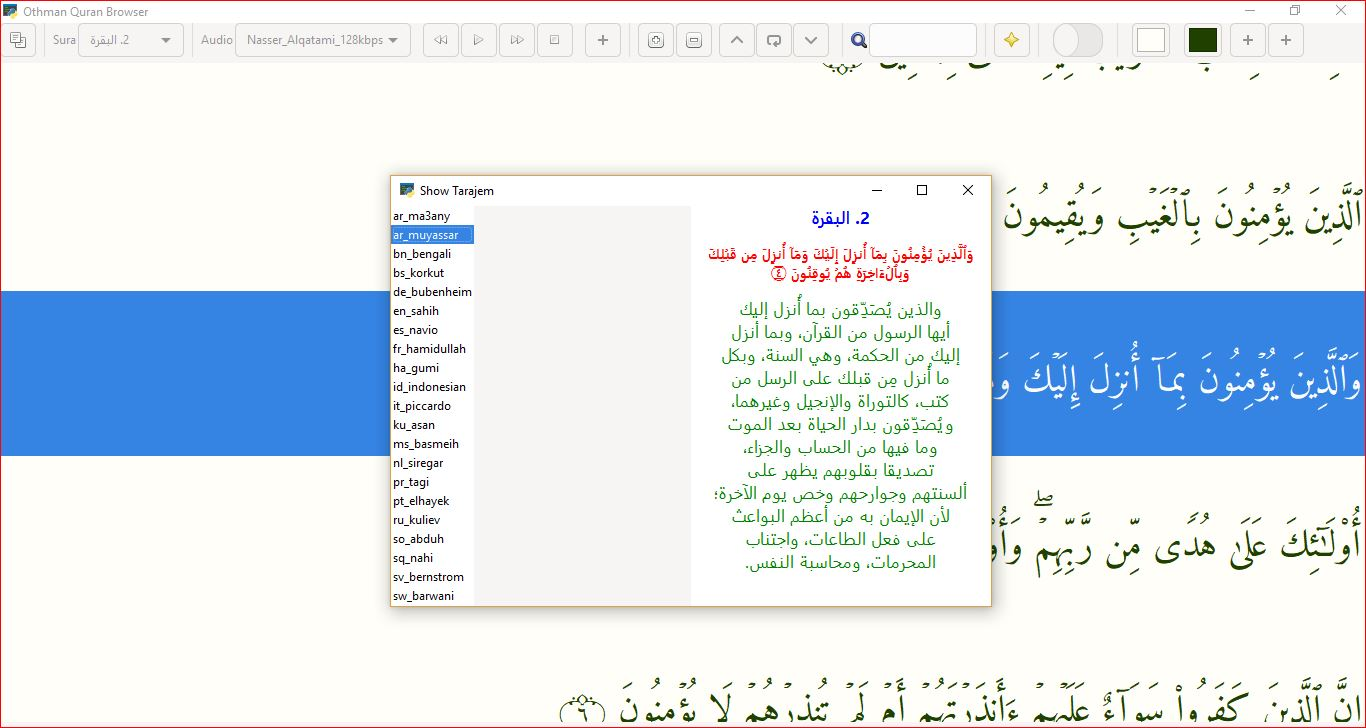
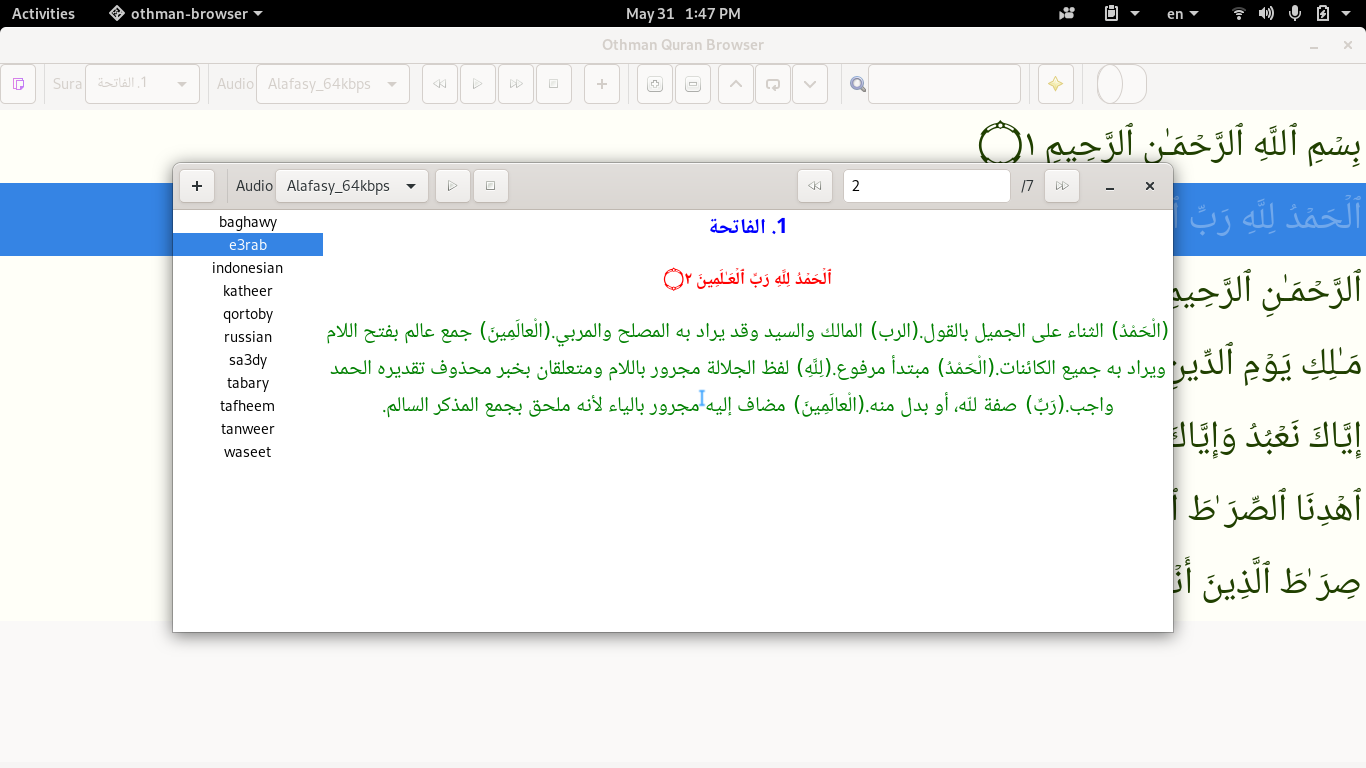
update

diff --git a/othman/gtkUi.py b/othman/gtkUi.py
@@ -121,8 +121,21 @@ class searchWindow(Gtk.Window):
 ###############################################################################
 
 class ShowTarajemTafasir(Gtk.Window):
-    def __init__(self, w=None,tafasir_data_location=None,tooltip="",add_title="",title_="",sura_n=1,aya_n=1,sura="",aya="",msg_if_faild = ""):
+    def __init__(self, w=None,tafasir_data_location=None,tooltip="",add_title="",title_="",sura_n=1,aya_n=1,sura="",aya="",msg_if_faild = "",all_audio=None,istarajem=True):
         Gtk.Window.__init__(self)
+        self.suwar_info = {'1': '7', '2': '286', '3': '200', '4': '176', '5': '120', '6': '165', '7': '206', '8': '75', '9': '129', '10': '109', 
+                           '11': '123', '12': '111', '13': '43', '14': '52', '15': '99', '16': '128', '17': '111', '18': '110', '19': '98', 
+                            '20': '135', '21': '112', '22': '78', '23': '118', '24': '64', '25': '77', '26': '227', '27': '93', '28': '88', 
+                            '29': '69', '30': '60', '31': '34', '32': '30', '33': '73', '34': '54', '35': '45', '36': '83', '37': '182', 
+                            '38': '88', '39': '75', '40': '85', '41': '54', '42': '53', '43': '89', '44': '59', '45': '37', '46': '35', 
+                            '47': '38', '48': '29', '49': '18', '50': '45', '51': '60', '52': '49', '53': '62', '54': '55', '55': '78', 
+                            '56': '96', '57': '29', '58': '22', '59': '24', '60': '13', '61': '14', '62': '11', '63': '11', '64': '18', 
+                            '65': '12', '66': '12', '67': '30', '68': '52', '69': '52', '70': '44', '71': '28', '72': '28', '73': '20', 
+                            '74': '56', '75': '40', '76': '31', '77': '50', '78': '40', '79': '46', '80': '42', '81': '29', '82': '19', 
+                            '83': '36', '84': '25', '85': '22', '86': '17', '87': '19', '88': '26', '89': '30', '90': '20', '91': '15', 
+                            '92': '21', '93': '11', '94': '8', '95': '8', '96': '19', '97': '5', '98': '8', '99': '8', '100': '11', '101': '11', 
+                            '102': '8', '103': '3', '104': '9', '105': '5', '106': '4', '107': '7', '108': '3', '109': '6', '110': '3', '111': '5', 
+                            '112': '4', '113': '5', '114': '5'}
         self.w            = w
         self.tafasir_data_location = tafasir_data_location
         self.tooltip      = tooltip
@@ -133,14 +146,16 @@ class ShowTarajemTafasir(Gtk.Window):
         self.aya          = aya
         self.msg_if_faild = msg_if_faild
         self.title_       = title_
+        self.__all_audio  = all_audio
+        self.istarajem    = istarajem
         self.cleanr       = re.compile('<.*?>|&([a-z0-9]+|#[0-9]{1,6}|#x[0-9a-f]{1,6});')
         self.set_size_request(600, 400)
-
+        self.max_sura_number = self.suwar_info[str(self.sura_n)]
+        self.pipeline = Gst.ElementFactory.make("playbin", "player")
+        
         self.set_position(Gtk.WindowPosition.CENTER_ON_PARENT )
-        #self.set_type_hint(Gdk.WindowTypeHint.UTILITY)
-        if w:
-            self.set_modal(True)
-            self.set_transient_for(w)
+
+        self.w.set_sensitive(False)
         self.set_deletable(True)
         self.set_title(self.title_)
         
@@ -159,9 +174,49 @@ class ShowTarajemTafasir(Gtk.Window):
         self.maincontainer = Gtk.VBox()
         self.add(self.maincontainer)
         self.connect("key-press-event", self._on_key_press)
-        self.connect('delete-event', self._on_cancel_button_clicked)
+        self.connect('delete-event', self._on_delete_event)
         self.__all_tafasir = self.get_all_tafasir_location()
+        self.othmancore = othmanCore()
         self.gui_()
+
+    def _stop_audio(self,button=False):
+        self.pipeline.set_state(Gst.State.NULL)
+
+    def _play_audio(self,button=False):
+        self._stop_audio()
+        aya   = self.aya_n
+        sura  = self.sura_n
+        aya_  = str(aya)
+        sura_ = str(sura)
+        q = self.__all_audio[self.audio_c.get_active_text()]
+
+        if aya==0 and sura not in (9,1) :
+            q = os.path.join(q,"001001.mp3")
+        else:
+            s_ = ("0"*(3-len(sura_)))+sura_
+            a_ = ("0"*(3-len(aya_)))+aya_
+            #q = os.path.join(q,sura_.zfill(4-len(sura_))+aya_.zfill(4-len(aya_))+".mp3")
+            q = os.path.join(q,s_+a_+".mp3")
+        if not os.path.isfile(q):
+            return
+        
+        if  sys.platform.startswith('win'):
+            q =  "file:///"+os.path.abspath(q).replace(os.sep, '/')
+        else:
+            q = "file://"+os.path.abspath(q)
+
+        self.pipeline.set_property('uri',q)
+        self.pipeline.set_state(Gst.State.PLAYING)
+
+        
+    def _on_key_press(self,widget, event):
+        print(event.keyval)
+        if  event.keyval == Gdk.KEY_Left  :
+            self.rewind_b.emit("clicked",self.entry,self.entry_handler)
+                
+        elif   event.keyval == Gdk.KEY_Right  :
+            self.forward_b.emit("clicked",self.entry,self.entry_handler)
+        self.queue_draw()
 
     def _on_add_tafasir_clicked(self,button):
         self.add_w = AddData(self,self.tafasir_data_location,self.add_title)
@@ -190,12 +245,129 @@ class ShowTarajemTafasir(Gtk.Window):
             return result
         return False
 
+    def on_back_aya(self,button,entry,entry_handler):
+        listboxrow = self.listbox_ .get_selected_row()
+        if not listboxrow:
+            return
+        if self.aya_n-1==0:
+            return
+        self.aya_n-=1
+        with GObject.Object.handler_block(entry,entry_handler):
+            entry.set_text(str(self.aya_n))
+        self.aya = self.othmancore.getAyatIter(self.othmancore.ayaIdFromSuraAya(self.sura_n,self.aya_n)).fetchall()[0][0]
+        t  = listboxrow.get_child().props.label
+        db = self.__all_tafasir[t]
+        self.aya_info(db,t)
+        
+    def on_forward_aya(self,button,entry,entry_handler):
+        listboxrow = self.listbox_ .get_selected_row()
+        if not listboxrow:
+            return
+        if self.aya_n+1>int(self.max_sura_number):
+            return
+        self.aya_n+=1
+        with GObject.Object.handler_block(entry,entry_handler):
+            entry.set_text(str(self.aya_n))
+        self.aya = self.othmancore.getAyatIter(self.othmancore.ayaIdFromSuraAya(self.sura_n,self.aya_n)).fetchall()[0][0]
+        t  = listboxrow.get_child().props.label
+        db = self.__all_tafasir[t]
+        self.aya_info(db,t)
+
+    def on_entry_activate(self,entry):
+        text = entry.get_text()
+        listboxrow = self.listbox_.get_selected_row()
+        if not listboxrow:
+            return
+        try:
+            it = int(text)
+        except:
+            return
+        if it>int(self.max_sura_number) or it==0:
+            return
+        else:
+            self.aya_n = it
+            self.aya = self.othmancore.getAyatIter(self.othmancore.ayaIdFromSuraAya(self.sura_n,self.aya_n)).fetchall()[0][0]
+            t  = listboxrow.get_child().props.label
+            db = self.__all_tafasir[t]
+            self.aya_info(db,t)
+            
     def gui_(self):
         self.remove(self.maincontainer)
         self.maincontainer.destroy()
         self.maincontainer = Gtk.HBox()
         self.add(self.maincontainer)
+        if self.sura_n not in (1,9) and self.aya_n==0:
+            self.aya_n=1
         if  self.__all_tafasir:
+            self.connect("key-press-event", self._on_key_press)#########################
+
+
+            hb = Gtk.HBox()
+            hb.set_spacing(2)
+            hb.pack_start(Gtk.VSeparator(), False, False, 6)
+            hb.pack_start(Gtk.Label(_("Audio")), False, False, 0)
+            self.audio_c = Gtk.ComboBoxText.new()
+            self.audio_c.set_wrap_width(5)
+            if self.__all_audio:
+                for i in self.__all_audio.keys():
+                    self.audio_c.append_text(i)
+                self.audio_c.set_tooltip_text(_("choose a Audio"))
+                self.audio_c.set_active(0)
+            else:
+                self.audio_c.set_sensitive(False)
+                self.audio_c.set_tooltip_text(_("No Audio Available"))
+            hb.pack_start(self.audio_c, False, False, 0)
+        
+            audiohb = Gtk.HBox()
+            audiohb.set_spacing(2)
+            img = Gtk.Image.new_from_icon_name("media-playback-start", Gtk.IconSize.BUTTON)
+            self.play_b = Gtk.Button()
+            self.play_b.set_tooltip_text(_("Play"))
+            self.play_b.add(img)
+            audiohb.pack_start(self.play_b, False, False, 0)
+            self.play_b.connect("clicked", self._play_audio)
+        
+            img = Gtk.Image.new_from_icon_name("media-playback-stop", Gtk.IconSize.BUTTON)
+            self.stop_b = Gtk.Button()
+            self.stop_b.set_tooltip_text(_("Stop"))
+            self.stop_b.add(img)
+            audiohb.pack_start(self.stop_b, False, False, 0)
+            self.stop_b.connect("clicked", self._stop_audio)
+            
+            if not self.__all_audio:
+                self.play_b.set_sensitive(False)
+                self.stop_b.set_sensitive(False)
+
+            
+            self.header.pack_start(hb)
+            self.header.pack_start(audiohb)
+        
+            h = Gtk.HBox()
+            h.props.spacing = 10
+            self.entry = Gtk.Entry()
+            self.entry.set_max_width_chars(3)
+            self.entry.set_input_purpose(Gtk.InputPurpose.DIGITS)
+            self.entry.set_text(str(self.aya_n))
+            self.entry_handler = self.entry.connect("activate",self.on_entry_activate)
+            label_aya_number = Gtk.Label()
+            label_aya_number.props.label = "/{}".format(self.max_sura_number)
+    
+            img = Gtk.Image.new_from_icon_name("media-seek-backward", Gtk.IconSize.BUTTON)
+            self.rewind_b = Gtk.Button()
+            self.rewind_b.add(img)
+            h.pack_start(self.rewind_b, False, False, 0)
+            self.rewind_b.connect("clicked", self.on_back_aya,self.entry,self.entry_handler)
+
+            h.pack_start(self.entry, False, False, 0)
+            h.pack_start(label_aya_number, False, False, 0)
+            
+            img = Gtk.Image.new_from_icon_name("media-seek-forward", Gtk.IconSize.BUTTON)
+            self.forward_b = Gtk.Button()
+            self.forward_b.add(img)
+            h.pack_start(self.forward_b, False, False, 0)
+            self.forward_b.connect("clicked", self.on_forward_aya,self.entry,self.entry_handler)
+            
+            self.header.pack_end(h)
             sw1=Gtk.ScrolledWindow()
             sw1.set_policy(Gtk.PolicyType.AUTOMATIC,Gtk.PolicyType.AUTOMATIC)
             sw2=Gtk.ScrolledWindow()
@@ -206,21 +378,10 @@ class ShowTarajemTafasir(Gtk.Window):
             self.maincontainer.pack_start(sw2,True,True,0)
             
 
-            listbox_ = Gtk.ListBox()
-            sw1.add(listbox_)
+            self.listbox_ = Gtk.ListBox()
+            sw1.add(self.listbox_)
             self.__check = True
 
-            
-            for category in dict(sorted(self.__all_tafasir.items())).keys():
-                category_label = Gtk.Label()
-                category_label.set_label(category)
-                row_ = Gtk.ListBoxRow()
-                row_.props.activatable = True
-                row_.props.selectable = True
-                row_.add(category_label)
-                listbox_.add(row_)
-
-            listbox_.connect("row-selected",self.on_selected_row)
             self.text_v = Gtk.TextView()
             self.text_v.set_hexpand(True)
             self.text_v.set_vexpand(True)
@@ -230,6 +391,26 @@ class ShowTarajemTafasir(Gtk.Window):
             self.text_v.props.wrap_mode = Gtk.WrapMode.WORD
             self.buffer = self.text_v.get_buffer()
             sw2.add(self.text_v)
+            
+            if self.istarajem :
+                cc = self.w._current_tarajem
+            else:
+                cc = self.w._current_tafasir
+            for category in dict(sorted(self.__all_tafasir.items())).keys():
+                category_label = Gtk.Label()
+                category_label.set_label(category)
+                row_ = Gtk.ListBoxRow()
+                row_.props.activatable = True
+                row_.props.selectable = True
+                row_.add(category_label)
+                self.listbox_.add(row_)
+                if category==cc:
+                    self.listbox_.select_row(row_)
+
+            self.listbox_.connect("row-selected",self.on_selected_row)
+            if not cc:
+                self.listbox_.select_row(self.listbox_.get_row_at_index(0))
+            
         else:
             l = Gtk.Label()
             l.props.label = self.msg_if_faild
@@ -243,13 +424,21 @@ class ShowTarajemTafasir(Gtk.Window):
         t  = listboxrow.get_child().props.label
         db = self.__all_tafasir[t]
         self.aya_info(db,t)
+        if self.istarajem :
+            self.w._current_tarajem = t
+        else:
+            self.w._current_tafasir = t
 
         
-    def _on_cancel_button_clicked(self,*argv):
+    def _on_delete_event(self,*argv):
+        self.w.set_sensitive(True)
+        self._stop_audio()
         self.destroy()
         
     def _on_key_press(self,widget, event):
         if event.keyval == Gdk.KEY_Escape :
+            self.w.set_sensitive(True)
+            self._stop_audio()
             self.destroy()
             
     def in_text(self,line,end="\n\n"):
@@ -261,7 +450,7 @@ class ShowTarajemTafasir(Gtk.Window):
         start = self.buffer.get_start_iter()
         end = self.buffer.get_end_iter()
         self.buffer.delete(start, end)
-        
+
     def aya_info(self,db,table,text="text"):
         self.clear_text()
         try:
@@ -476,7 +665,7 @@ class AddData(Gtk.Window):
         
 class Yes_Or_No(Gtk.MessageDialog):
     def __init__(self,msg,parent=None,link_button="https://www.amirifont.org"):
-        Gtk.MessageDialog.__init__(self,buttons = Gtk.ButtonsType.OK_CANCEL)
+        Gtk.MessageDialog.__init__(self,buttons = Gtk.ButtonsType.YES_NO )
         self.props.message_type = Gtk.MessageType.QUESTION
         self.props.text         = msg
         self.p=parent
@@ -548,6 +737,9 @@ class othmanUi(Gtk.Window, othmanCore):
         
         ############################
         self.__can_play = True
+        self.__isfullscreen = False
+        self._current_tafasir = ""
+        self._current_tarajem = ""
         self.pipeline = Gst.ElementFactory.make("playbin", "player")
         self.pipeline2 = Gst.ElementFactory.make("playbin", "player")
         self.__bus1 = self.pipeline.get_bus()
@@ -1073,7 +1265,7 @@ class othmanUi(Gtk.Window, othmanCore):
             
         elif  (event.state & Gdk.ModifierType.CONTROL_MASK) and event.keyval == Gdk.KEY_f:
             self.search.grab_focus_without_selecting()
-            
+                
         elif  (event.state & Gdk.ModifierType.CONTROL_MASK) and event.keyval == Gdk.KEY_z:
             self.zoomIn()
             
@@ -1119,6 +1311,8 @@ class othmanUi(Gtk.Window, othmanCore):
         elif  (event.state & Gdk.ModifierType.CONTROL_MASK) and event.keyval == Gdk.KEY_Right  :
             if self.audio_c.get_sensitive() and self.pipeline2.get_state(Gst.CLOCK_TIME_NONE )[1]==Gst.State.PLAYING:
                 self.seek_audio() 
+                
+
             
         """elif  (event.state & Gdk.ModifierType.SHIFT_MASK) and (event.state & Gdk.ModifierType.CONTROL_MASK | Gdk.ModifierType.SHIFT_MASK):
             print("dddddddddd)"""
@@ -1428,7 +1622,7 @@ class othmanUi(Gtk.Window, othmanCore):
         self._stop_audio()
         ShowTarajemTafasir(self,self.tarajem_data_location ,
                     _("Add Tarajem Sources"),
-                    _("Add Tarajem from ayat"),_("Show Tarajem"),sura_n+1,aya_n,sura,aya,_("Tarajem Not Available"))
+                    _("Add Tarajem from ayat"),_("Show Tarajem"),sura_n+1,aya_n,sura,aya,_("Tarajem Not Available"),self.__all_audio,True)
 
     def get_current_info_aya_tafasir(self):
         sura_n,aya_n = self.get_sura_aya()
@@ -1439,7 +1633,7 @@ class othmanUi(Gtk.Window, othmanCore):
         self._stop_audio()
         ShowTarajemTafasir(self,self.tafasir_data_location ,
                     _("Add Tafasir Sources"),
-                    _("Add Tafasir from ayat"),_("Show Tafasir"),sura_n+1,aya_n,sura,aya,_("Tafasir Not Available"))
+                    _("Add Tafasir from ayat"),_("Show Tafasir"),sura_n+1,aya_n,sura,aya,_("Tafasir Not Available"),self.__all_audio,False)
 
     def quit(self,*args):
         last_sura_aya_config  = self.get_last_sura_aya()
